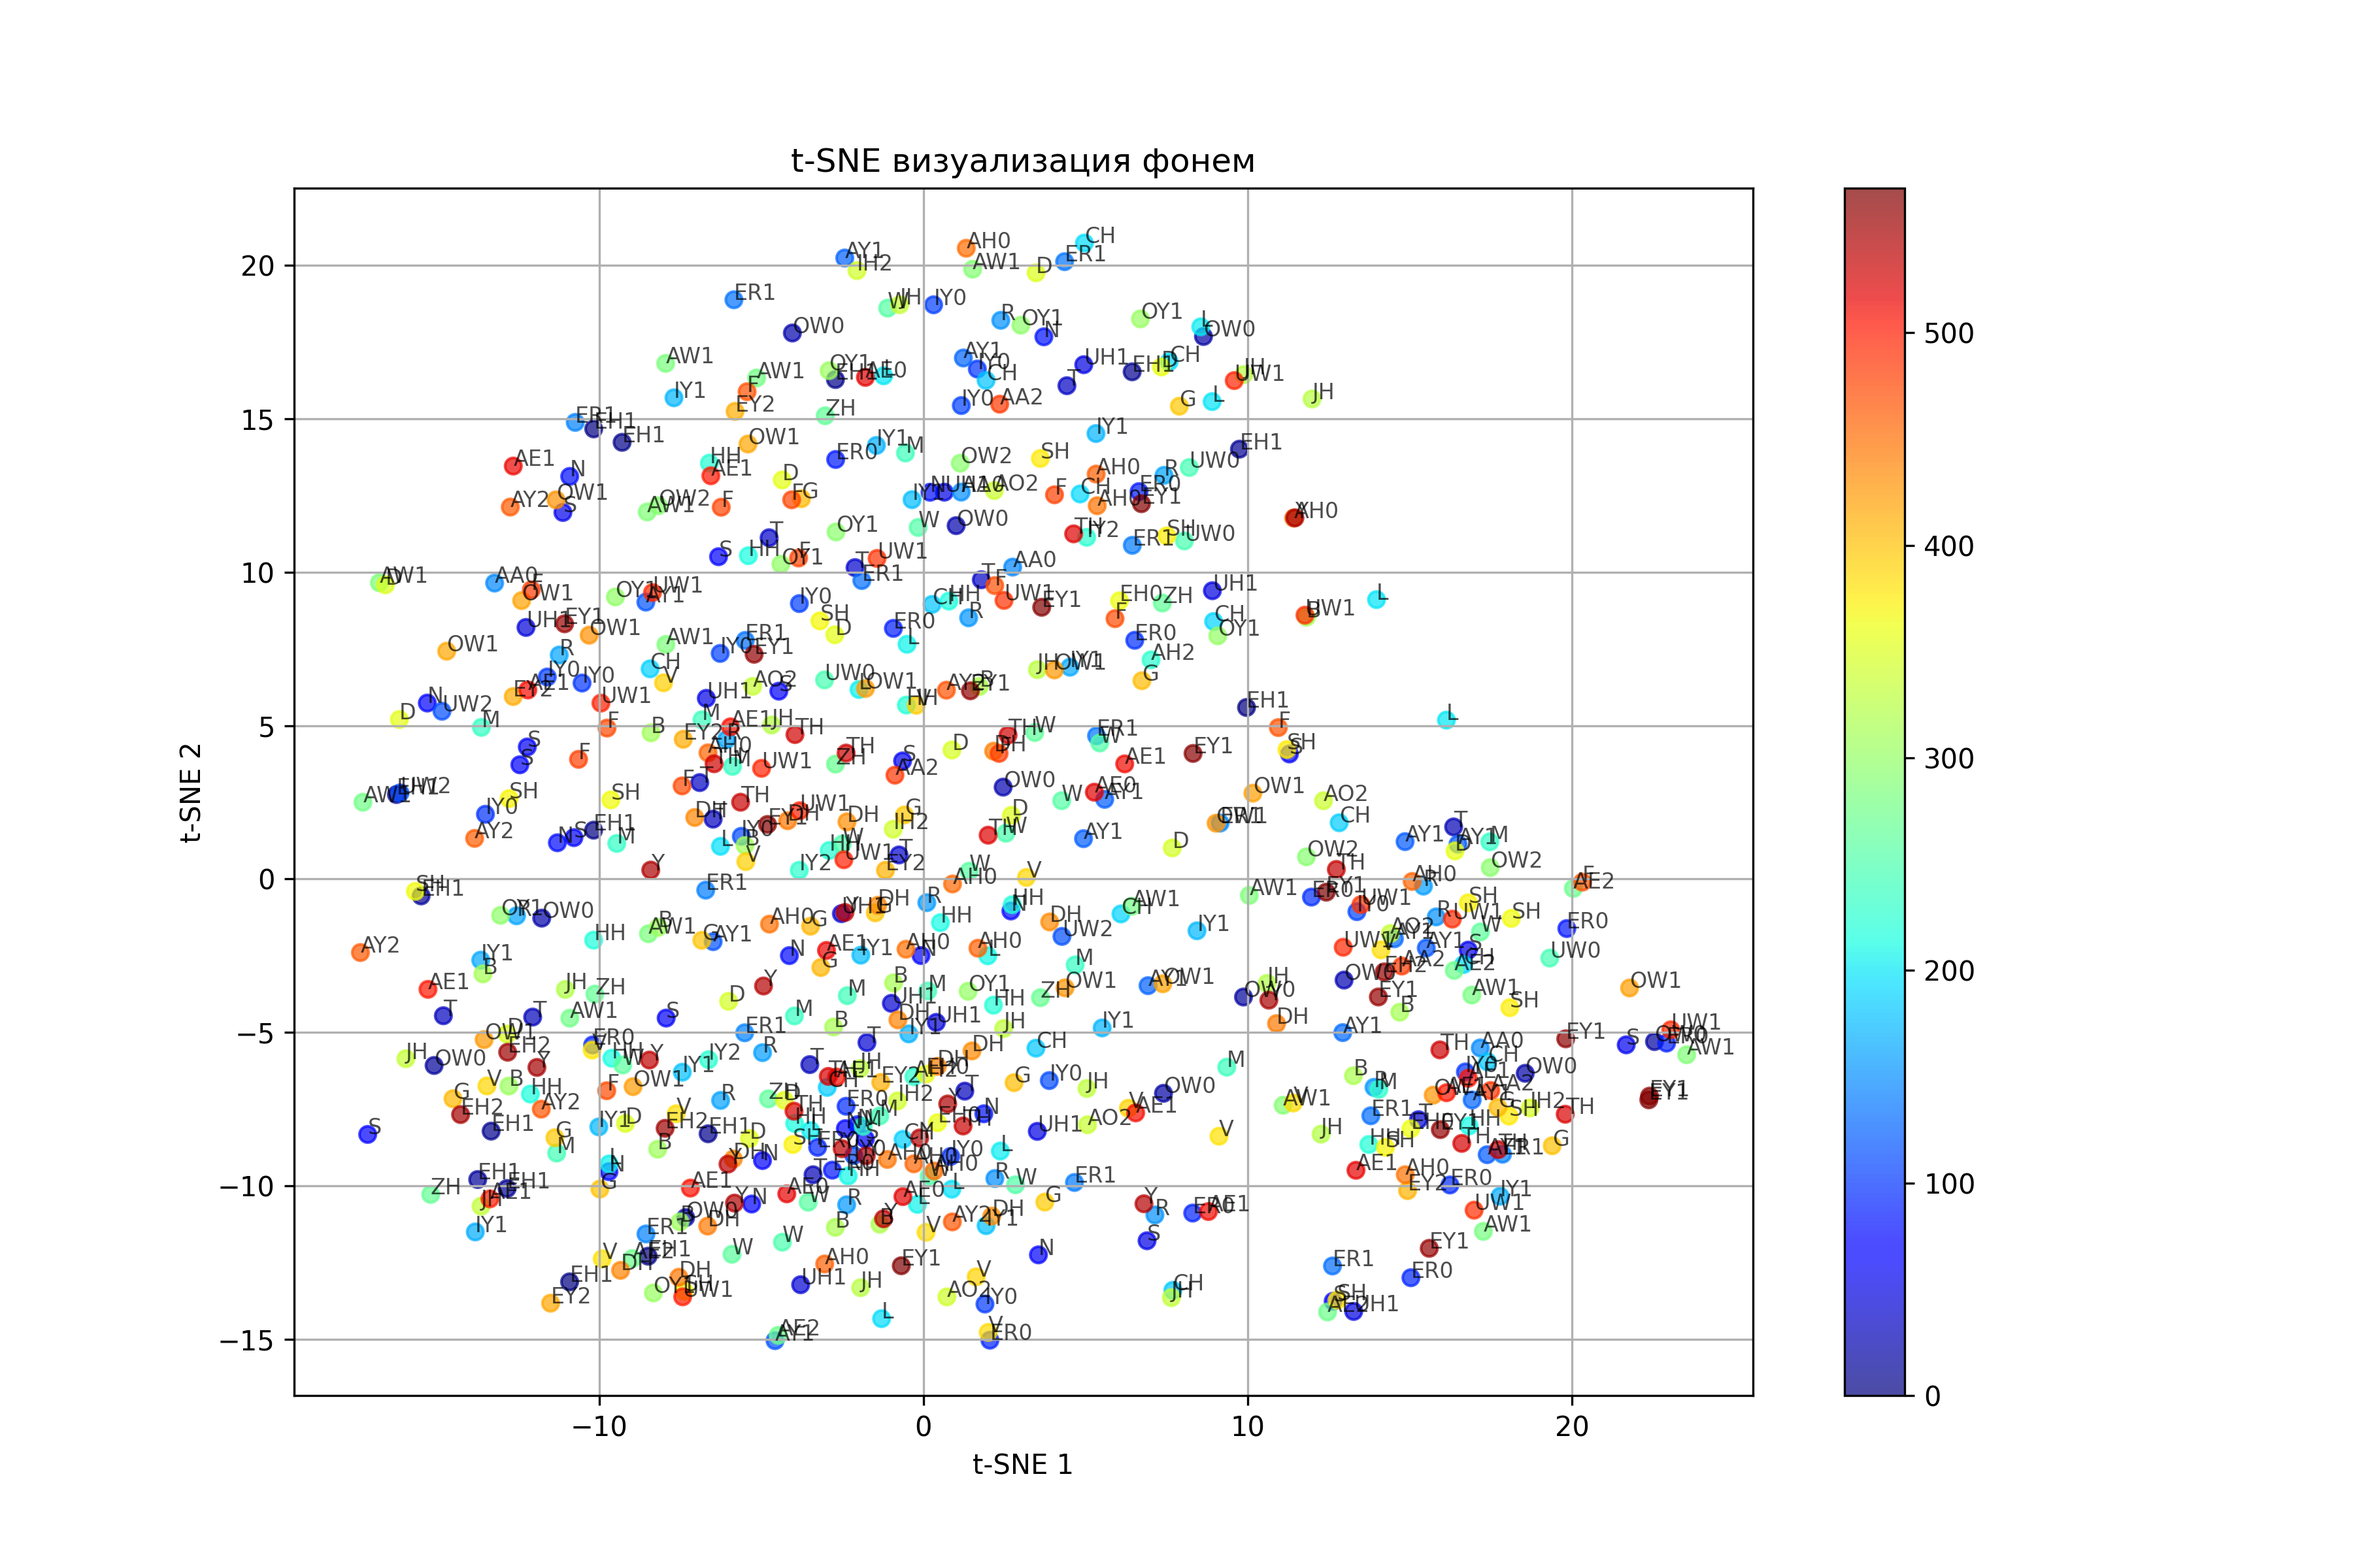
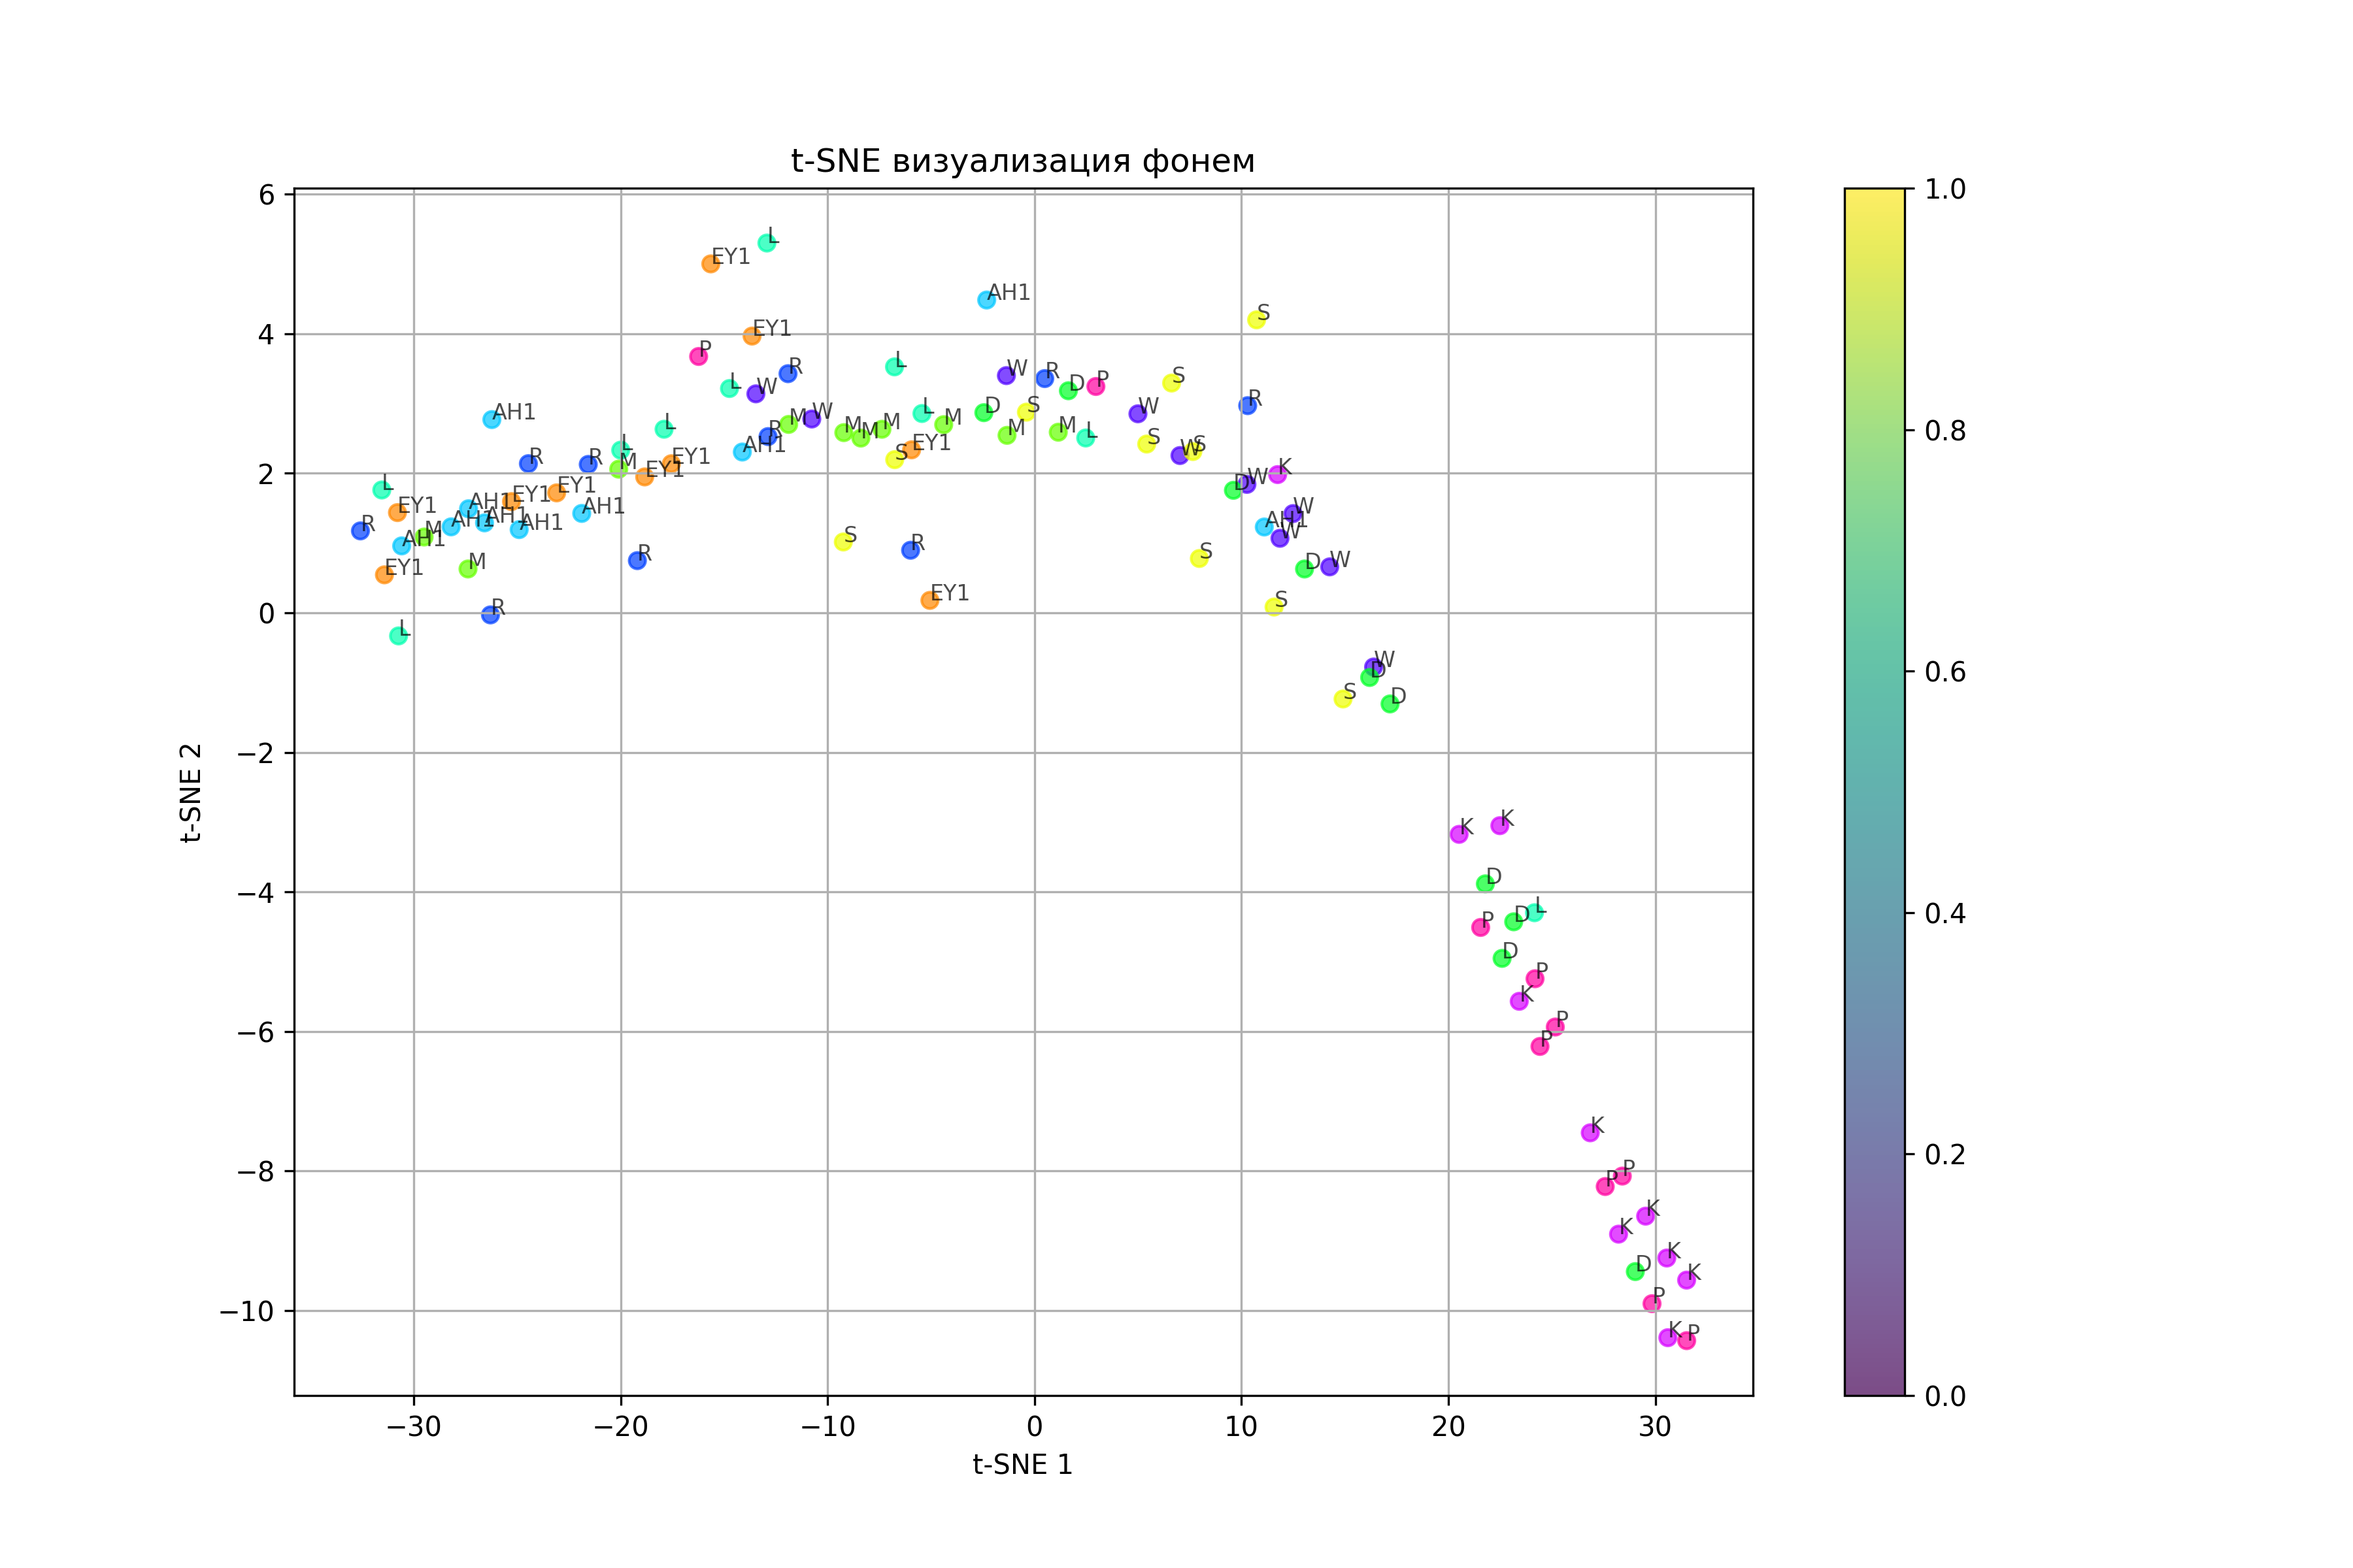
style: tSNE update

diff --git a/energy/src/tsne.py b/energy/src/tsne.py
@@ -1,59 +1,73 @@
 import numpy as np
-import random
 import matplotlib.pyplot as plt
 from sklearn.manifold import TSNE
 from tqdm import tqdm
+import seaborn as sns
 
 from energy.src.train import PhonemeDataset
 
-NUM_PHONEMES = 50
-SAMPLES_PER_PHONEME = 15
-SAVE_PATH = "../data/result/tsne_plot.png"
+NUM_PHONEMES = 10
+SAMPLES_PER_PHONEME = 10
+SAVE_PATH = "../data/result/tsne_plot2.png"
+
 
 def tsne():
-    dataset = PhonemeDataset(csv_path="../data/phoneme_energy-27000.csv", pretrain_dir="../models/voxblink2_samresnet34")
+    dataset = PhonemeDataset(csv_path="../data/phoneme_energy_eval.csv", pickle_path="embeds.pkl", is_train=False)
 
     phoneme_samples = {}
-    dataset.data = dataset.data[:4000]
-    for sample in tqdm(dataset, desc="phonem group"):
-        phoneme_idx = sample["labels"].item()
-        phoneme_name = list(dataset.phoneme_dict.keys())[phoneme_idx]
 
-        if phoneme_name not in phoneme_samples:
-            phoneme_samples[phoneme_name] = []
+    for i in tqdm(range(len(dataset.data)), desc="phoneme collect"):
+        item = dataset.__getitem__(i, row_label=True)
 
-        phoneme_samples[phoneme_name].append(sample["speech_embeddings"].numpy())
+        label = item["labels"]
+        embedding = np.hstack([item["energy"].numpy(), item["speech_embeddings"].numpy(), ])
 
-    selected_phonemes = random.sample(list(phoneme_samples.keys()), min(NUM_PHONEMES, len(phoneme_samples)))
+        if label not in phoneme_samples and len(phoneme_samples) < NUM_PHONEMES:
+            phoneme_samples[label] = [embedding]
+        elif label in phoneme_samples and len(phoneme_samples[label]) < SAMPLES_PER_PHONEME:
+            phoneme_samples[label].append(embedding)
+
     filtered_embeddings = []
     filtered_labels = []
 
-    for phoneme in tqdm(selected_phonemes, "phoneme go through"):
+    for phoneme in tqdm(phoneme_samples, desc="phoneme go through"):
         examples = phoneme_samples[phoneme]
-        selected_examples = random.sample(examples, min(SAMPLES_PER_PHONEME, len(examples)))
 
-        filtered_embeddings.extend(selected_examples)
-        filtered_labels.extend([phoneme] * len(selected_examples))
+        filtered_embeddings.extend(examples)
+
+        filtered_labels.extend([phoneme] * len(examples))
+
+    if not filtered_embeddings:
+        print("Ошибка: нет данных для t-SNE!")
+        return
 
     X = np.vstack(filtered_embeddings)
     y = np.array(filtered_labels)
 
-    tsne = TSNE(n_components=2, perplexity=30, random_state=42)
+    tsne = TSNE(n_components=2, perplexity=min(len(X) // 10, 50), random_state=42, max_iter=1500)
     X_tsne = tsne.fit_transform(X)
 
+    unique_labels = list(set(y))
+    palette = sns.color_palette("hsv", len(unique_labels))
+    color_map = {label: palette[i] for i, label in enumerate(unique_labels)}
+    colors = [color_map[label] for label in y]
+
     plt.figure(figsize=(12, 8))
-    scatter = plt.scatter(X_tsne[:, 0], X_tsne[:, 1], c=np.arange(len(y)), cmap='jet', alpha=0.7)
+    scatter = plt.scatter(X_tsne[:, 0], X_tsne[:, 1], c=colors, cmap='jet', alpha=0.7)
 
     for i, phoneme in enumerate(y):
         plt.annotate(phoneme, (X_tsne[i, 0], X_tsne[i, 1]), fontsize=8, alpha=0.7)
+
+    print(f"Среднее эмбеддингов: {np.mean(X, axis=0)}")
+    print(f"STD эмбеддингов: {np.std(X, axis=0)}")
 
     plt.title("t-SNE визуализация фонем")
     plt.xlabel("t-SNE 1")
     plt.ylabel("t-SNE 2")
     plt.colorbar(scatter)
     plt.grid(True)
-    plt.savefig(SAVE_PATH, dpi=300)
-    print(f"График сохранен в {SAVE_PATH}")
+    plt.savefig("tsne_plot.png", dpi=300)
+    print(f"График сохранен в tsne_plot.png")
 
 
 if __name__ == '__main__':

diff --git a/energy/src/train.py b/energy/src/train.py
@@ -41,7 +41,7 @@ class PhonemeDataset(Dataset):
     def __len__(self):
         return len(self.data)
 
-    def __getitem__(self, idx):
+    def __getitem__(self, idx, row_label=False):
         row = self.data.iloc[idx]
         phoneme = row['phoneme']
         id = row['id'].__str__()
@@ -49,6 +49,13 @@ class PhonemeDataset(Dataset):
         item = self.data_dict[id]
         embeddings = item["embeddings"]
         energy = item["energy"]
+
+        if row_label:
+            return {
+                "labels": phoneme,
+                "speech_embeddings": torch.tensor(embeddings, dtype=torch.float32),
+                "energy": torch.tensor(energy, dtype=torch.float32),
+            }
 
         return {
             "labels": torch.tensor(self.phoneme_dict[phoneme], dtype=torch.long),
